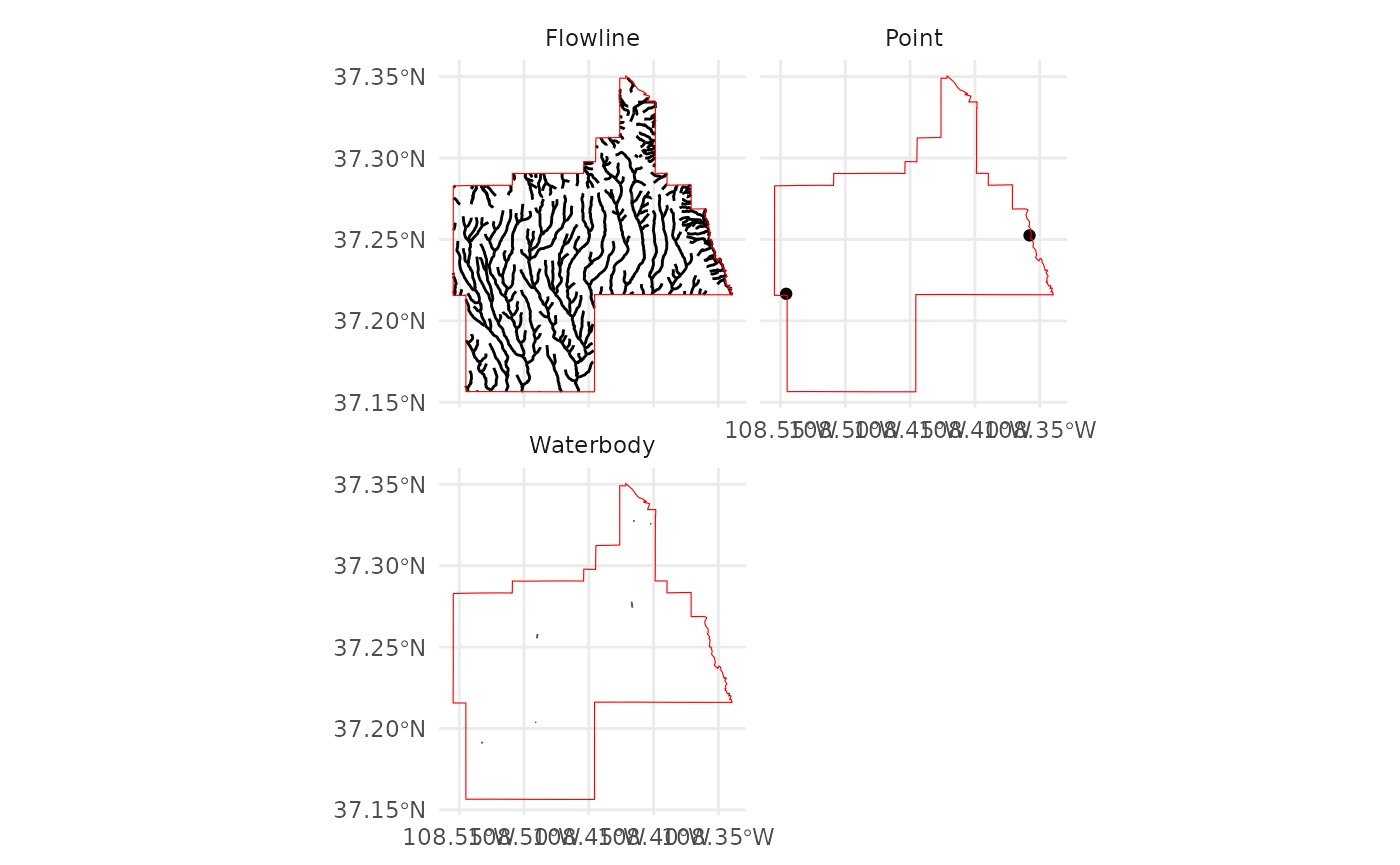
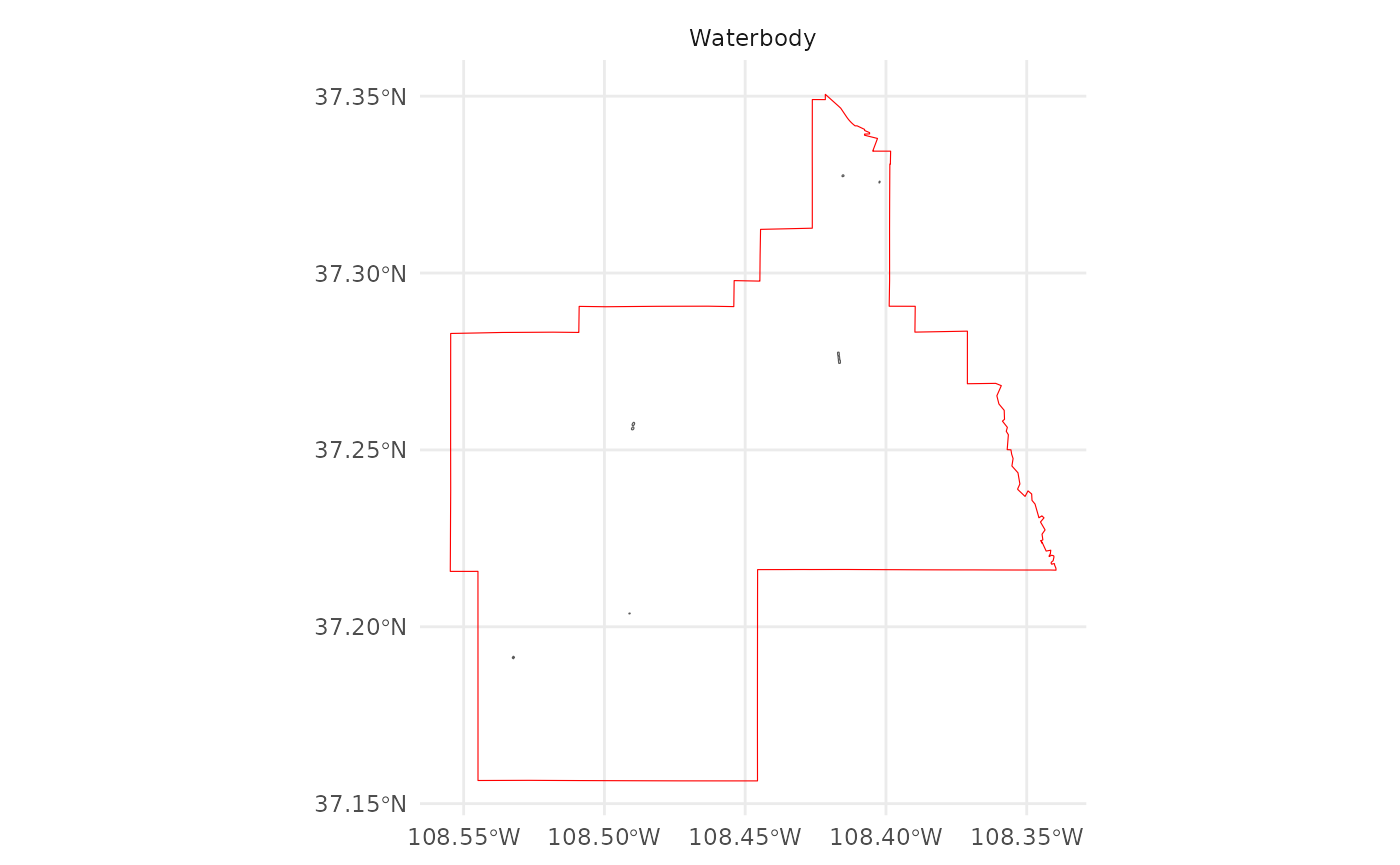
Deploying to gh-pages from @ ropensci/FedData@b0c3f42c3f6efd41c96bb395936d083dd2acd04b 🚀

diff --git a/articles/FedData.html b/articles/FedData.html
@@ -56,8 +56,6 @@
 <link href="FedData_files/mapviewCSS-0.0.1/mapview.css" rel="stylesheet">
 <script src="FedData_files/NED%20Elevation%20(m)_7049e5-1/data_stars_NEDElevationmf2e71b.txt"></script><script src="FedData_files/joda-0.0.1/joda.js"></script><script src="FedData_files/joda-0.0.1/addImageQuery-bindings.js"></script><link id="GHCN_prcp-1-attachment" rel="attachment" href="FedData_files/GHCN_prcp-0.0.1/GHCN_prcp_layer.fgb">
 <link id="GHCN_temp-1-attachment" rel="attachment" href="FedData_files/GHCN_temp-0.0.1/GHCN_temp_layer.fgb">
-<link id="Point-1-attachment" rel="attachment" href="FedData_files/Point-0.0.1/Point_layer.fgb">
-<link id="Flowline-1-attachment" rel="attachment" href="FedData_files/Flowline-0.0.1/Flowline_layer.fgb">
 <link id="Waterbody-1-attachment" rel="attachment" href="FedData_files/Waterbody-0.0.1/Waterbody_layer.fgb">
 <link id="x___name-1-attachment" rel="attachment" href="FedData_files/x___name-0.0.1/x___name_layer.fgb">
 <link id="x___label-1-attachment" rel="attachment" href="FedData_files/x___label-0.0.1/x___label_layer.fgb">
@@ -284,7 +282,7 @@ return in a future release of FedData.</p>
 <span><span class="va">NHD</span><span class="op">[</span><span class="fu">purrr</span><span class="fu">::</span><span class="fu"><a href="https://purrr.tidyverse.org/reference/map.html" class="external-link">map_lgl</a></span><span class="op">(</span><span class="va">NHD</span>, <span class="op">~</span> <span class="op">(</span><span class="fu"><a href="https://rspatial.github.io/terra/reference/dimensions.html" class="external-link">nrow</a></span><span class="op">(</span><span class="va">.x</span><span class="op">)</span> <span class="op">!=</span> <span class="fl">0</span><span class="op">)</span><span class="op">)</span><span class="op">]</span> <span class="op"><a href="../reference/pipe.html">%&gt;%</a></span></span>
 <span>  <span class="fu">plot_map</span><span class="op">(</span><span class="op">)</span></span></code></pre></div>
 <div class="leaflet html-widget html-fill-item" id="htmlwidget-1fb4450895fe099f74a1" style="width:100%;height:432.632880098888px;"></div>
-<script type="application/json" data-for="htmlwidget-1fb4450895fe099f74a1">{"x":{"options":{"minZoom":1,"maxZoom":52,"crs":{"crsClass":"L.CRS.EPSG3857","code":null,"proj4def":null,"projectedBounds":null,"options":{}},"preferCanvas":false,"bounceAtZoomLimits":false,"maxBounds":[[[-90,-370]],[[90,370]]]},"calls":[{"method":"addProviderTiles","args":["CartoDB.Positron","CartoDB.Positron","CartoDB.Positron",{"errorTileUrl":"","noWrap":false,"detectRetina":false,"pane":"tilePane"}]},{"method":"addProviderTiles","args":["CartoDB.DarkMatter","CartoDB.DarkMatter","CartoDB.DarkMatter",{"errorTileUrl":"","noWrap":false,"detectRetina":false,"pane":"tilePane"}]},{"method":"addProviderTiles","args":["OpenStreetMap","OpenStreetMap","OpenStreetMap",{"errorTileUrl":"","noWrap":false,"detectRetina":false,"pane":"tilePane"}]},{"method":"addProviderTiles","args":["Esri.WorldImagery","Esri.WorldImagery","Esri.WorldImagery",{"errorTileUrl":"","noWrap":false,"detectRetina":false,"pane":"tilePane"}]},{"method":"addProviderTiles","args":["OpenTopoMap","OpenTopoMap","OpenTopoMap",{"errorTileUrl":"","noWrap":false,"detectRetina":false,"pane":"tilePane"}]},{"method":"createMapPane","args":["point",440]},{"method":"addFlatGeoBuf","args":["Point","Point",null,true,["1","2"],{"radius":6,"stroke":true,"color":"#333333","weight":1,"opacity":0.9,"fill":true,"fillColor":"#6666FF","fillOpacity":0.6},{"interactive":true,"className":"","pane":"point"},"mapview-popup",{"radius":{"to":[3,15],"from":[3,15]},"weight":{"to":[1,10],"from":[1,10]},"opacity":{"to":[0,1],"from":[0,1]},"fillOpacity":{"to":[0,1],"from":[0,1]}},null,null,{"interactive":false,"permanent":false,"direction":"auto","opacity":1,"offset":[0,0],"textsize":"10px","textOnly":false,"className":"","sticky":true}]},{"method":"addScaleBar","args":[{"maxWidth":100,"metric":true,"imperial":true,"updateWhenIdle":true,"position":"bottomleft"}]},{"method":"addLegend","args":[{"colors":["#6666FF"],"labels":["Point"],"na_color":null,"na_label":"NA","opacity":1,"position":"bottomright","type":"factor","title":"","extra":null,"layerId":null,"className":"info legend","group":"Point"}]},{"method":"createMapPane","args":["line",430]},{"method":"addFlatGeoBuf","args":["Flowline","Flowline",null,true,["1","2","3","4","5","6","7","8","9","10","11","12","13","14","15","16","17","18","19","20","21","22","23","24","25","26","27","28","29","30","31","32","33","34","35","36","37","38","39","40","41","42","43","44","45","46","47","48","49","50","51","52","53","54","55","56","57","58","59","60","61","62","63","64","65","66","67","68","69","70","71","72","73","74","75","76","77","78","79","80","81","82","83","84","85","86","87","88","89","90","91","92","93","94","95","96","97","98","99","100","101","102","103","104","105","106","107","108","109","110","111","112","113","114","115","116","117","118","119","120","121","122","123","124","125","126","127","128","129","130","131","132","133","134","135","136","137","138","139","140","141","142","143","144","145","146","147","148","149","150","151","152","153","154","155","156","157","158","159","160","161","162","163","164","165","166","167","168","169","170","171","172","173","174","175","176","177","178","179","180","181","182","183","184","185","186","187","188","189","190","191","192","193","194","195","196","197","198","199","200","201","202","203","204","205","206","207","208","209","210","211","212","213","214","215","216","217","218","219","220","221","222","223","224","225","226","227","228","229","230","231","232","233","234","235","236","237","238","239","240","241","242","243","244","245","246","247","248","249","250","251","252","253","254","255","256","257","258","259","260","261","262","263","264","265","266","267","268","269","270","271","272","273","274","275","276","277","278","279","280","281","282","283","284","285","286","287","288","289","290","291","292","293","294","295","296","297","298","299","300","301","302","303","304","305","306","307","308","309","310","311","312","313","314","315","316","317","318","319","320","321","322","323","324","325","326","327","328","329","330","331","332","333","334","335","336","337","338","339","340","341","342","343","344","345","346","347","348","349","350","351","352","353","354","355","356","357","358","359","360","361","362","363","364","365","366","367","368","369","370","371","372","373","374","375","376","377","378","379","380","381","382","383","384","385","386","387","388","389","390","391","392","393","394","395","396","397","398","399","400","401","402","403","404","405","406","407","408","409","410","411","412","413","414","415","416","417","418","419","420","421","422","423"],{"radius":6,"stroke":true,"color":"#6666FF","weight":2,"opacity":0.9,"fill":false,"fillColor":null,"fillOpacity":1},{"interactive":true,"className":"","pane":"line"},"mapview-popup",{"radius":{"to":[3,15],"from":[3,15]},"weight":{"to":[1,10],"from":[1,10]},"opacity":{"to":[0,1],"from":[0,1]},"fillOpacity":{"to":[0,1],"from":[0,1]}},null,null,{"interactive":false,"permanent":false,"direction":"auto","opacity":1,"offset":[0,0],"textsize":"10px","textOnly":false,"className":"","sticky":true}]},{"method":"addLegend","args":[{"colors":["#6666FF"],"labels":["Flowline"],"na_color":null,"na_label":"NA","opacity":1,"position":"bottomright","type":"factor","title":"","extra":null,"layerId":null,"className":"info legend","group":"Flowline"}]},{"method":"createMapPane","args":["polygon",420]},{"method":"addFlatGeoBuf","args":["Waterbody","Waterbody",null,true,["1","2","3","4","5","6","7","8","9","10"],{"radius":6,"stroke":true,"color":"#333333","weight":0.5,"opacity":0.9,"fill":true,"fillColor":"#6666FF","fillOpacity":0.6},{"interactive":true,"className":"","pane":"polygon"},"mapview-popup",{"radius":{"to":[3,15],"from":[3,15]},"weight":{"to":[1,10],"from":[1,10]},"opacity":{"to":[0,1],"from":[0,1]},"fillOpacity":{"to":[0,1],"from":[0,1]}},null,null,{"interactive":false,"permanent":false,"direction":"auto","opacity":1,"offset":[0,0],"textsize":"10px","textOnly":false,"className":"","sticky":true}]},{"method":"addLayersControl","args":[["CartoDB.Positron","CartoDB.DarkMatter","OpenStreetMap","Esri.WorldImagery","OpenTopoMap"],["Point","Flowline","Waterbody"],{"collapsed":true,"autoZIndex":true,"position":"topleft"}]},{"method":"addLegend","args":[{"colors":["#6666FF"],"labels":["Waterbody"],"na_color":null,"na_label":"NA","opacity":1,"position":"bottomright","type":"factor","title":"","extra":null,"layerId":null,"className":"info legend","group":"Waterbody"}]},{"method":"addHomeButton","args":[-108.[phone redacted],37.[phone redacted],-[phone redacted],37.[phone redacted],true,null,"Zoom to full extent","<strong>Zoom full<\/strong>","bottomleft"]},{"method":"removeLayersControl","args":[]},{"method":"addTiles","args":["https://basemap.nationalmap.gov/ArcGIS/rest/services/USGSShadedReliefOnly/MapServer/tile/{z}/{y}/{x}",null,null,{"minZoom":0,"maxZoom":18,"tileSize":256,"subdomains":"abc","errorTileUrl":"","tms":false,"noWrap":false,"zoomOffset":0,"zoomReverse":false,"opacity":1,"zIndex":1,"detectRetina":false}]},{"method":"addTiles","args":["https://tiles.stadiamaps.com/tiles/stamen_toner_lines/{z}/{x}/{y}.png",null,null,{"minZoom":0,"maxZoom":18,"tileSize":256,"subdomains":"abc","errorTileUrl":"","tms":false,"noWrap":false,"zoomOffset":0,"zoomReverse":false,"opacity":1,"zIndex":1,"detectRetina":false}]},{"method":"addTiles","args":["https://tiles.stadiamaps.com/tiles/stamen_toner_labels/{z}/{x}/{y}.png",null,null,{"minZoom":0,"maxZoom":18,"tileSize":256,"subdomains":"abc","errorTileUrl":"","tms":false,"noWrap":false,"zoomOffset":0,"zoomReverse":false,"opacity":1,"zIndex":1,"detectRetina":false}]},{"method":"addPolygons","args":[[[[{"lng":[-[phone redacted],-[phone redacted],-[phone redacted],-[phone redacted],-[phone redacted],-[phone redacted],-[phone redacted],-[phone redacted],-[phone redacted],-[phone redacted],-[phone redacted],-[phone redacted],-[phone redacted],-[phone redacted],-[phone redacted],-[phone redacted],-[phone redacted],-[phone redacted],-[phone redacted],-[phone redacted],-[phone redacted],-[phone redacted],-[phone redacted],-[phone redacted],-[phone redacted],-[phone redacted],-[phone redacted],-[phone redacted],-[phone redacted],-[phone redacted],-[phone redacted],-[phone redacted],-[phone redacted],-[phone redacted],-[phone redacted],-[phone redacted],-[phone redacted],-[phone redacted],-[phone redacted],-[phone redacted],-[phone redacted],-[phone redacted],-[phone redacted],-[phone redacted],-[phone redacted],-[phone redacted],-[phone redacted],-[phone redacted],-[phone redacted],-[phone redacted],-[phone redacted],-[phone redacted],-[phone redacted],-[phone redacted],-[phone redacted],-[phone redacted],-[phone redacted],-[phone redacted],-[phone redacted],-[phone redacted],-[phone redacted],-[phone redacted],-[phone redacted],-[phone redacted],-[phone redacted],-[phone redacted],-[phone redacted],-[phone redacted],-[phone redacted],-[phone redacted],-[phone redacted],-[phone redacted],-[phone redacted],-[phone redacted],-[phone redacted],-[phone redacted],-[phone redacted],-[phone redacted],-[phone redacted],-[phone redacted],-[phone redacted],-[phone redacted],-[phone redacted],-[phone redacted],-[phone redacted],-[phone redacted],-[phone redacted],-[phone redacted],-[phone redacted],-[phone redacted],-[phone redacted],-[phone redacted],-[phone redacted],-[phone redacted],-[phone redacted],-[phone redacted],-[phone redacted],-[phone redacted],-[phone redacted],-[phone redacted],-[phone redacted],-[phone redacted],-[phone redacted],-[phone redacted],-[phone redacted],-[phone redacted],-[phone redacted],-[phone redacted],-[phone redacted],-[phone redacted],-[phone redacted],-[phone redacted],-[phone redacted],-[phone redacted],-[phone redacted],-[phone redacted],-[phone redacted],-[phone redacted],-[phone redacted],-[phone redacted],-[phone redacted],-[phone redacted],-[phone redacted],-[phone redacted],-[phone redacted],-[phone redacted],-[phone redacted],-[phone redacted],-[phone redacted],-[phone redacted],-[phone redacted],-[phone redacted],-[phone redacted],-[phone redacted],-[phone redacted],-[phone redacted],-[phone redacted],-[phone redacted],-[phone redacted],-[phone redacted],-[phone redacted],-[phone redacted],-[phone redacted],-[phone redacted],-[phone redacted],-[phone redacted],-[phone redacted],-[phone redacted],-[phone redacted],-[phone redacted],-[phone redacted],-[phone redacted],-[phone redacted],-[phone redacted],-[phone redacted],-[phone redacted],-[phone redacted],-[phone redacted],-[phone redacted],-[phone redacted],-[phone redacted],-[phone redacted],-[phone redacted],-[phone redacted],-[phone redacted],-[phone redacted],-[phone redacted],-[phone redacted],-[phone redacted],-[phone redacted],-[phone redacted],-[phone redacted],-[phone redacted],-[phone redacted],-[phone redacted],-[phone redacted],-[phone redacted],-[phone redacted],-[phone redacted],-[phone redacted],-[phone redacted],-[phone redacted],-[phone redacted],-[phone redacted],-[phone redacted],-[phone redacted],-[phone redacted],-[phone redacted],-[phone redacted],-[phone redacted],-[phone redacted],-[phone redacted],-[phone redacted],-[phone redacted],-[phone redacted],-[phone redacted],-[phone redacted],-[phone redacted],-[phone redacted],-[phone redacted],-[phone redacted],-[phone redacted],-[phone redacted],-[phone redacted],-[phone redacted],-[phone redacted],-[phone redacted],-[phone redacted],-[phone redacted],-[phone redacted],-[phone redacted],-[phone redacted],-[phone redacted],-[phone redacted],-[phone redacted],-[phone redacted],-[phone redacted],-[phone redacted],-[phone redacted],-[phone redacted],-[phone redacted],-[phone redacted],-[phone redacted],-[phone redacted],-[phone redacted],-[phone redacted],-[phone redacted],-[phone redacted],-[phone redacted],-[phone redacted],-[phone redacted]],"lat":[[phone redacted],[phone redacted],[phone redacted],37.[phone redacted],37.[phone redacted],37.[phone redacted],[phone redacted],[phone redacted],37.[phone redacted],[phone redacted],[phone redacted],[phone redacted],[phone redacted],37.[phone redacted],[phone redacted],37.[phone redacted],[phone redacted],37.[phone redacted],[phone redacted],37.[phone redacted],[phone redacted],[phone redacted],37.[phone redacted],[phone redacted],[phone redacted],[phone redacted],[phone redacted],[phone redacted],[phone redacted],[phone redacted],[phone redacted],[phone redacted],37.[phone redacted],[phone redacted],[phone redacted],[phone redacted],[phone redacted],[phone redacted],37.[phone redacted],[phone redacted],[phone redacted],[phone redacted],37.[phone redacted],[phone redacted],[phone redacted],[phone redacted],37.[phone redacted],[phone redacted],[phone redacted],37.[phone redacted],[phone redacted],[phone redacted],[phone redacted],[phone redacted],[phone redacted],[phone redacted],37.[phone redacted],[phone redacted],37.[phone redacted],[phone redacted],[phone redacted],[phone redacted],[phone redacted],[phone redacted],[phone redacted],[phone redacted],[phone redacted],[phone redacted],[phone redacted],[phone redacted],[phone redacted],37.[phone redacted],[phone redacted],[phone redacted],[phone redacted],37.[phone redacted],[phone redacted],[phone redacted],37.[phone redacted],37.[phone redacted],[phone redacted],[phone redacted],[phone redacted],[phone redacted],[phone redacted],[phone redacted],37.[phone redacted],[phone redacted],[phone redacted],[phone redacted],[phone redacted],[phone redacted],37.[phone redacted],[phone redacted],[phone redacted],[phone redacted],[phone redacted],[phone redacted],[phone redacted],[phone redacted],[phone redacted],[phone redacted],[phone redacted],[phone redacted],[phone redacted],[phone redacted],[phone redacted],37.[phone redacted],[phone redacted],[phone redacted],[phone redacted],[phone redacted],[phone redacted],[phone redacted],[phone redacted],37.[phone redacted],37.[phone redacted],[phone redacted],[phone redacted],[phone redacted],[phone redacted],[phone redacted],37.[phone redacted],37.[phone redacted],37.[phone redacted],[phone redacted],[phone redacted],[phone redacted],[phone redacted],[phone redacted],[phone redacted],[phone redacted],[phone redacted],[phone redacted],37.[phone redacted],[phone redacted],37.[phone redacted],[phone redacted],[phone redacted],37.[phone redacted],[phone redacted],[phone redacted],[phone redacted],[phone redacted],[phone redacted],[phone redacted],[phone redacted],[phone redacted],[phone redacted],37.[phone redacted],37.[phone redacted],[phone redacted],[phone redacted],[phone redacted],[phone redacted],[phone redacted],[phone redacted],[phone redacted],[phone redacted],[phone redacted],37.[phone redacted],[phone redacted],[phone redacted],[phone redacted],[phone redacted],[phone redacted],[phone redacted],37.[phone redacted],[phone redacted],[phone redacted],37.[phone redacted],37.[phone redacted],[phone redacted],37.[phone redacted],[phone redacted],[phone redacted],37.[phone redacted],37.[phone redacted],[phone redacted],[phone redacted],[phone redacted],[phone redacted],37.[phone redacted],[phone redacted],[phone redacted],37.[phone redacted],37.[phone redacted],[phone redacted],[phone redacted],[phone redacted],[phone redacted],37.[phone redacted],37.[phone redacted],[phone redacted],[phone redacted],[phone redacted],[phone redacted],37.[phone redacted],[phone redacted],[phone redacted],37.[phone redacted],[phone redacted],[phone redacted],[phone redacted],37.[phone redacted],37.[phone redacted],[phone redacted],[phone redacted],[phone redacted],[phone redacted],[phone redacted],[phone redacted],[phone redacted],[phone redacted],[phone redacted],[phone redacted],[phone redacted],[phone redacted],[phone redacted],[phone redacted],[phone redacted],[phone redacted],[phone redacted],37.[phone redacted],[phone redacted],[phone redacted],[phone redacted],[phone redacted],[phone redacted],[phone redacted],[phone redacted]]}]]],null,null,{"pointerEvents":"none","stroke":true,"color":"black","weight":5,"opacity":0.5,"fill":false,"fillColor":"black","fillOpacity":0.2,"smoothFactor":1,"noClip":false},null,null,null,{"interactive":false,"permanent":false,"direction":"auto","opacity":1,"offset":[0,0],"textsize":"10px","textOnly":false,"className":"","sticky":true},{"sendToBack":true}]}],"fitBounds":[[phone redacted],-[phone redacted],[phone redacted],-[phone redacted],[]],"limits":{"lat":[[phone redacted],[phone redacted]],"lng":[-[phone redacted],-[phone redacted]]}},"evals":[],"jsHooks":{"render":[{"code":"function(el, x, data) {\n  return (\n      function(el, x, data) {\n      // get the leaflet map\n      var map = this; //HTMLWidgets.find('#' + el.id);\n      // we need a new div element because we have to handle\n      // the mouseover output separately\n      // debugger;\n      function addElement () {\n      // generate new div Element\n      var newDiv = $(document.createElement('div'));\n      // append at end of leaflet htmlwidget container\n      $(el).append(newDiv);\n      //provide ID and style\n      newDiv.addClass('lnlt');\n      newDiv.css({\"position\":\"relative\",\"bottomleft\":\"0px\",\"background-color\":\"rgba(255, 255, 255, 0.7)\",\"box-shadow\":\"0 0 2px #bbb\",\"background-clip\":\"padding-box\",\"margin\":\"0\",\"padding-left\":\"5px\",\"padding-right\":\"5px\",\"color\":\"#333\",\"font-size\":\"9px\",\"font-family\":\"\\\"Helvetica Neue\\\", Arial, Helvetica, sans-serif\",\"text-align\":\"left\",\"z-index\":\"700\"});\n      return newDiv;\n      }\n\n\n      // check for already existing lnlt class to not duplicate\n      var lnlt = $(el).find('.lnlt');\n\n      if(!lnlt.length) {\n      lnlt = addElement();\n\n      // grab the special div we generated in the beginning\n      // and put the mousmove output there\n\n      map.on('mousemove', function (e) {\n      if (e.originalEvent.ctrlKey) {\n      if (document.querySelector('.lnlt') === null) lnlt = addElement();\n      lnlt.text(\n                           ' lon: ' + (e.latlng.lng).toFixed(5) +\n                           ' | lat: ' + (e.latlng.lat).toFixed(5) +\n                           ' | zoom: ' + map.getZoom() +\n                           ' | x: ' + L.CRS.EPSG3857.project(e.latlng).x.toFixed(0) +\n                           ' | y: ' + L.CRS.EPSG3857.project(e.latlng).y.toFixed(0) +\n                           ' | epsg: 3857 ' +\n                           ' | proj4: +proj=merc +a=[phone redacted] +b=[phone redacted] +lat_ts=0.0 +lon_0=0.0 +x_0=0.0 +y_0=0 +k=1.0 +units=m +nadgrids=@null +no_defs ');\n      } else {\n      if (document.querySelector('.lnlt') === null) lnlt = addElement();\n      lnlt.text(\n                      ' lon: ' + (e.latlng.lng).toFixed(5) +\n                      ' | lat: ' + (e.latlng.lat).toFixed(5) +\n                      ' | zoom: ' + map.getZoom() + ' ');\n      }\n      });\n\n      // remove the lnlt div when mouse leaves map\n      map.on('mouseout', function (e) {\n      var strip = document.querySelector('.lnlt');\n      if( strip !==null) strip.remove();\n      });\n\n      };\n\n      //$(el).keypress(67, function(e) {\n      map.on('preclick', function(e) {\n      if (e.originalEvent.ctrlKey) {\n      if (document.querySelector('.lnlt') === null) lnlt = addElement();\n      lnlt.text(\n                      ' lon: ' + (e.latlng.lng).toFixed(5) +\n                      ' | lat: ' + (e.latlng.lat).toFixed(5) +\n                      ' | zoom: ' + map.getZoom() + ' ');\n      var txt = document.querySelector('.lnlt').textContent;\n      console.log(txt);\n      //txt.innerText.focus();\n      //txt.select();\n      setClipboardText('\"' + txt + '\"');\n      }\n      });\n\n      }\n      ).call(this.getMap(), el, x, data);\n}","data":null},{"code":"function(el, x, data) {\n  return (function(el,x,data){\n           var map = this;\n\n           map.on('keypress', function(e) {\n               console.log(e.originalEvent.code);\n               var key = e.originalEvent.code;\n               if (key === 'KeyE') {\n                   var bb = this.getBounds();\n                   var txt = JSON.stringify(bb);\n                   console.log(txt);\n\n                   setClipboardText('\\'' + txt + '\\'');\n               }\n           })\n        }).call(this.getMap(), el, x, data);\n}","data":null}]}}</script><div class="sourceCode" id="cb8"><pre class="downlit sourceCode r">
+<script type="application/json" data-for="htmlwidget-1fb4450895fe099f74a1">{"x":{"options":{"minZoom":1,"maxZoom":52,"crs":{"crsClass":"L.CRS.EPSG3857","code":null,"proj4def":null,"projectedBounds":null,"options":{}},"preferCanvas":false,"bounceAtZoomLimits":false,"maxBounds":[[[-90,-370]],[[90,370]]]},"calls":[{"method":"addProviderTiles","args":["CartoDB.Positron","CartoDB.Positron","CartoDB.Positron",{"errorTileUrl":"","noWrap":false,"detectRetina":false,"pane":"tilePane"}]},{"method":"addProviderTiles","args":["CartoDB.DarkMatter","CartoDB.DarkMatter","CartoDB.DarkMatter",{"errorTileUrl":"","noWrap":false,"detectRetina":false,"pane":"tilePane"}]},{"method":"addProviderTiles","args":["OpenStreetMap","OpenStreetMap","OpenStreetMap",{"errorTileUrl":"","noWrap":false,"detectRetina":false,"pane":"tilePane"}]},{"method":"addProviderTiles","args":["Esri.WorldImagery","Esri.WorldImagery","Esri.WorldImagery",{"errorTileUrl":"","noWrap":false,"detectRetina":false,"pane":"tilePane"}]},{"method":"addProviderTiles","args":["OpenTopoMap","OpenTopoMap","OpenTopoMap",{"errorTileUrl":"","noWrap":false,"detectRetina":false,"pane":"tilePane"}]},{"method":"createMapPane","args":["polygon",420]},{"method":"addFlatGeoBuf","args":["Waterbody","Waterbody",null,true,["1","2","3","4","5","6","7","8","9","10"],{"radius":6,"stroke":true,"color":"#333333","weight":0.5,"opacity":0.9,"fill":true,"fillColor":"#6666FF","fillOpacity":0.6},{"interactive":true,"className":"","pane":"polygon"},"mapview-popup",{"radius":{"to":[3,15],"from":[3,15]},"weight":{"to":[1,10],"from":[1,10]},"opacity":{"to":[0,1],"from":[0,1]},"fillOpacity":{"to":[0,1],"from":[0,1]}},null,null,{"interactive":false,"permanent":false,"direction":"auto","opacity":1,"offset":[0,0],"textsize":"10px","textOnly":false,"className":"","sticky":true}]},{"method":"addScaleBar","args":[{"maxWidth":100,"metric":true,"imperial":true,"updateWhenIdle":true,"position":"bottomleft"}]},{"method":"addLayersControl","args":[["CartoDB.Positron","CartoDB.DarkMatter","OpenStreetMap","Esri.WorldImagery","OpenTopoMap"],"Waterbody",{"collapsed":true,"autoZIndex":true,"position":"topleft"}]},{"method":"addLegend","args":[{"colors":["#6666FF"],"labels":["Waterbody"],"na_color":null,"na_label":"NA","opacity":1,"position":"bottomright","type":"factor","title":"","extra":null,"layerId":null,"className":"info legend","group":"Waterbody"}]},{"method":"removeLayersControl","args":[]},{"method":"addTiles","args":["https://basemap.nationalmap.gov/ArcGIS/rest/services/USGSShadedReliefOnly/MapServer/tile/{z}/{y}/{x}",null,null,{"minZoom":0,"maxZoom":18,"tileSize":256,"subdomains":"abc","errorTileUrl":"","tms":false,"noWrap":false,"zoomOffset":0,"zoomReverse":false,"opacity":1,"zIndex":1,"detectRetina":false}]},{"method":"addTiles","args":["https://tiles.stadiamaps.com/tiles/stamen_toner_lines/{z}/{x}/{y}.png",null,null,{"minZoom":0,"maxZoom":18,"tileSize":256,"subdomains":"abc","errorTileUrl":"","tms":false,"noWrap":false,"zoomOffset":0,"zoomReverse":false,"opacity":1,"zIndex":1,"detectRetina":false}]},{"method":"addTiles","args":["https://tiles.stadiamaps.com/tiles/stamen_toner_labels/{z}/{x}/{y}.png",null,null,{"minZoom":0,"maxZoom":18,"tileSize":256,"subdomains":"abc","errorTileUrl":"","tms":false,"noWrap":false,"zoomOffset":0,"zoomReverse":false,"opacity":1,"zIndex":1,"detectRetina":false}]},{"method":"addPolygons","args":[[[[{"lng":[-[phone redacted],-[phone redacted],-[phone redacted],-[phone redacted],-[phone redacted],-[phone redacted],-[phone redacted],-[phone redacted],-[phone redacted],-[phone redacted],-[phone redacted],-[phone redacted],-[phone redacted],-[phone redacted],-[phone redacted],-[phone redacted],-[phone redacted],-[phone redacted],-[phone redacted],-[phone redacted],-[phone redacted],-[phone redacted],-[phone redacted],-[phone redacted],-[phone redacted],-[phone redacted],-[phone redacted],-[phone redacted],-[phone redacted],-[phone redacted],-[phone redacted],-[phone redacted],-[phone redacted],-[phone redacted],-[phone redacted],-[phone redacted],-[phone redacted],-[phone redacted],-[phone redacted],-[phone redacted],-[phone redacted],-[phone redacted],-[phone redacted],-[phone redacted],-[phone redacted],-[phone redacted],-[phone redacted],-[phone redacted],-[phone redacted],-[phone redacted],-[phone redacted],-[phone redacted],-[phone redacted],-[phone redacted],-[phone redacted],-[phone redacted],-[phone redacted],-[phone redacted],-[phone redacted],-[phone redacted],-[phone redacted],-[phone redacted],-[phone redacted],-[phone redacted],-[phone redacted],-[phone redacted],-[phone redacted],-[phone redacted],-[phone redacted],-[phone redacted],-[phone redacted],-[phone redacted],-[phone redacted],-[phone redacted],-[phone redacted],-[phone redacted],-[phone redacted],-[phone redacted],-[phone redacted],-[phone redacted],-[phone redacted],-[phone redacted],-[phone redacted],-[phone redacted],-[phone redacted],-[phone redacted],-[phone redacted],-[phone redacted],-[phone redacted],-[phone redacted],-[phone redacted],-[phone redacted],-[phone redacted],-[phone redacted],-[phone redacted],-[phone redacted],-[phone redacted],-[phone redacted],-[phone redacted],-[phone redacted],-[phone redacted],-[phone redacted],-[phone redacted],-[phone redacted],-[phone redacted],-[phone redacted],-[phone redacted],-[phone redacted],-[phone redacted],-[phone redacted],-[phone redacted],-[phone redacted],-[phone redacted],-[phone redacted],-[phone redacted],-[phone redacted],-[phone redacted],-[phone redacted],-[phone redacted],-[phone redacted],-[phone redacted],-[phone redacted],-[phone redacted],-[phone redacted],-[phone redacted],-[phone redacted],-[phone redacted],-[phone redacted],-[phone redacted],-[phone redacted],-[phone redacted],-[phone redacted],-[phone redacted],-[phone redacted],-[phone redacted],-[phone redacted],-[phone redacted],-[phone redacted],-[phone redacted],-[phone redacted],-[phone redacted],-[phone redacted],-[phone redacted],-[phone redacted],-[phone redacted],-[phone redacted],-[phone redacted],-[phone redacted],-[phone redacted],-[phone redacted],-[phone redacted],-[phone redacted],-[phone redacted],-[phone redacted],-[phone redacted],-[phone redacted],-[phone redacted],-[phone redacted],-[phone redacted],-[phone redacted],-[phone redacted],-[phone redacted],-[phone redacted],-[phone redacted],-[phone redacted],-[phone redacted],-[phone redacted],-[phone redacted],-[phone redacted],-[phone redacted],-[phone redacted],-[phone redacted],-[phone redacted],-[phone redacted],-[phone redacted],-[phone redacted],-[phone redacted],-[phone redacted],-[phone redacted],-[phone redacted],-[phone redacted],-[phone redacted],-[phone redacted],-[phone redacted],-[phone redacted],-[phone redacted],-[phone redacted],-[phone redacted],-[phone redacted],-[phone redacted],-[phone redacted],-[phone redacted],-[phone redacted],-[phone redacted],-[phone redacted],-[phone redacted],-[phone redacted],-[phone redacted],-[phone redacted],-[phone redacted],-[phone redacted],-[phone redacted],-[phone redacted],-[phone redacted],-[phone redacted],-[phone redacted],-[phone redacted],-[phone redacted],-[phone redacted],-[phone redacted],-[phone redacted],-[phone redacted],-[phone redacted],-[phone redacted],-[phone redacted],-[phone redacted],-[phone redacted],-[phone redacted],-[phone redacted],-[phone redacted],-[phone redacted],-[phone redacted],-[phone redacted],-[phone redacted],-[phone redacted],-[phone redacted],-[phone redacted],-[phone redacted],-[phone redacted],-[phone redacted],-[phone redacted]],"lat":[[phone redacted],[phone redacted],[phone redacted],37.[phone redacted],37.[phone redacted],37.[phone redacted],[phone redacted],[phone redacted],37.[phone redacted],[phone redacted],[phone redacted],[phone redacted],[phone redacted],37.[phone redacted],[phone redacted],37.[phone redacted],[phone redacted],37.[phone redacted],[phone redacted],37.[phone redacted],[phone redacted],[phone redacted],37.[phone redacted],[phone redacted],[phone redacted],[phone redacted],[phone redacted],[phone redacted],[phone redacted],[phone redacted],[phone redacted],[phone redacted],37.[phone redacted],[phone redacted],[phone redacted],[phone redacted],[phone redacted],[phone redacted],37.[phone redacted],[phone redacted],[phone redacted],[phone redacted],37.[phone redacted],[phone redacted],[phone redacted],[phone redacted],37.[phone redacted],[phone redacted],[phone redacted],37.[phone redacted],[phone redacted],[phone redacted],[phone redacted],[phone redacted],[phone redacted],[phone redacted],37.[phone redacted],[phone redacted],37.[phone redacted],[phone redacted],[phone redacted],[phone redacted],[phone redacted],[phone redacted],[phone redacted],[phone redacted],[phone redacted],[phone redacted],[phone redacted],[phone redacted],[phone redacted],37.[phone redacted],[phone redacted],[phone redacted],[phone redacted],37.[phone redacted],[phone redacted],[phone redacted],37.[phone redacted],37.[phone redacted],[phone redacted],[phone redacted],[phone redacted],[phone redacted],[phone redacted],[phone redacted],37.[phone redacted],[phone redacted],[phone redacted],[phone redacted],[phone redacted],[phone redacted],37.[phone redacted],[phone redacted],[phone redacted],[phone redacted],[phone redacted],[phone redacted],[phone redacted],[phone redacted],[phone redacted],[phone redacted],[phone redacted],[phone redacted],[phone redacted],[phone redacted],[phone redacted],37.[phone redacted],[phone redacted],[phone redacted],[phone redacted],[phone redacted],[phone redacted],[phone redacted],[phone redacted],37.[phone redacted],37.[phone redacted],[phone redacted],[phone redacted],[phone redacted],[phone redacted],[phone redacted],37.[phone redacted],37.[phone redacted],37.[phone redacted],[phone redacted],[phone redacted],[phone redacted],[phone redacted],[phone redacted],[phone redacted],[phone redacted],[phone redacted],[phone redacted],37.[phone redacted],[phone redacted],37.[phone redacted],[phone redacted],[phone redacted],37.[phone redacted],[phone redacted],[phone redacted],[phone redacted],[phone redacted],[phone redacted],[phone redacted],[phone redacted],[phone redacted],[phone redacted],37.[phone redacted],37.[phone redacted],[phone redacted],[phone redacted],[phone redacted],[phone redacted],[phone redacted],[phone redacted],[phone redacted],[phone redacted],[phone redacted],37.[phone redacted],[phone redacted],[phone redacted],[phone redacted],[phone redacted],[phone redacted],[phone redacted],37.[phone redacted],[phone redacted],[phone redacted],37.[phone redacted],37.[phone redacted],[phone redacted],37.[phone redacted],[phone redacted],[phone redacted],37.[phone redacted],37.[phone redacted],[phone redacted],[phone redacted],[phone redacted],[phone redacted],37.[phone redacted],[phone redacted],[phone redacted],37.[phone redacted],37.[phone redacted],[phone redacted],[phone redacted],[phone redacted],[phone redacted],37.[phone redacted],37.[phone redacted],[phone redacted],[phone redacted],[phone redacted],[phone redacted],37.[phone redacted],[phone redacted],[phone redacted],37.[phone redacted],[phone redacted],[phone redacted],[phone redacted],37.[phone redacted],37.[phone redacted],[phone redacted],[phone redacted],[phone redacted],[phone redacted],[phone redacted],[phone redacted],[phone redacted],[phone redacted],[phone redacted],[phone redacted],[phone redacted],[phone redacted],[phone redacted],[phone redacted],[phone redacted],[phone redacted],[phone redacted],37.[phone redacted],[phone redacted],[phone redacted],[phone redacted],[phone redacted],[phone redacted],[phone redacted],[phone redacted]]}]]],null,null,{"pointerEvents":"none","stroke":true,"color":"black","weight":5,"opacity":0.5,"fill":false,"fillColor":"black","fillOpacity":0.2,"smoothFactor":1,"noClip":false},null,null,null,{"interactive":false,"permanent":false,"direction":"auto","opacity":1,"offset":[0,0],"textsize":"10px","textOnly":false,"className":"","sticky":true},{"sendToBack":true}]}],"fitBounds":[[phone redacted],-[phone redacted],[phone redacted],-[phone redacted],[]],"limits":{"lat":[[phone redacted],[phone redacted]],"lng":[-[phone redacted],-[phone redacted]]}},"evals":[],"jsHooks":{"render":[{"code":"function(el, x, data) {\n  return (\n      function(el, x, data) {\n      // get the leaflet map\n      var map = this; //HTMLWidgets.find('#' + el.id);\n      // we need a new div element because we have to handle\n      // the mouseover output separately\n      // debugger;\n      function addElement () {\n      // generate new div Element\n      var newDiv = $(document.createElement('div'));\n      // append at end of leaflet htmlwidget container\n      $(el).append(newDiv);\n      //provide ID and style\n      newDiv.addClass('lnlt');\n      newDiv.css({\"position\":\"relative\",\"bottomleft\":\"0px\",\"background-color\":\"rgba(255, 255, 255, 0.7)\",\"box-shadow\":\"0 0 2px #bbb\",\"background-clip\":\"padding-box\",\"margin\":\"0\",\"padding-left\":\"5px\",\"padding-right\":\"5px\",\"color\":\"#333\",\"font-size\":\"9px\",\"font-family\":\"\\\"Helvetica Neue\\\", Arial, Helvetica, sans-serif\",\"text-align\":\"left\",\"z-index\":\"700\"});\n      return newDiv;\n      }\n\n\n      // check for already existing lnlt class to not duplicate\n      var lnlt = $(el).find('.lnlt');\n\n      if(!lnlt.length) {\n      lnlt = addElement();\n\n      // grab the special div we generated in the beginning\n      // and put the mousmove output there\n\n      map.on('mousemove', function (e) {\n      if (e.originalEvent.ctrlKey) {\n      if (document.querySelector('.lnlt') === null) lnlt = addElement();\n      lnlt.text(\n                           ' lon: ' + (e.latlng.lng).toFixed(5) +\n                           ' | lat: ' + (e.latlng.lat).toFixed(5) +\n                           ' | zoom: ' + map.getZoom() +\n                           ' | x: ' + L.CRS.EPSG3857.project(e.latlng).x.toFixed(0) +\n                           ' | y: ' + L.CRS.EPSG3857.project(e.latlng).y.toFixed(0) +\n                           ' | epsg: 3857 ' +\n                           ' | proj4: +proj=merc +a=[phone redacted] +b=[phone redacted] +lat_ts=0.0 +lon_0=0.0 +x_0=0.0 +y_0=0 +k=1.0 +units=m +nadgrids=@null +no_defs ');\n      } else {\n      if (document.querySelector('.lnlt') === null) lnlt = addElement();\n      lnlt.text(\n                      ' lon: ' + (e.latlng.lng).toFixed(5) +\n                      ' | lat: ' + (e.latlng.lat).toFixed(5) +\n                      ' | zoom: ' + map.getZoom() + ' ');\n      }\n      });\n\n      // remove the lnlt div when mouse leaves map\n      map.on('mouseout', function (e) {\n      var strip = document.querySelector('.lnlt');\n      if( strip !==null) strip.remove();\n      });\n\n      };\n\n      //$(el).keypress(67, function(e) {\n      map.on('preclick', function(e) {\n      if (e.originalEvent.ctrlKey) {\n      if (document.querySelector('.lnlt') === null) lnlt = addElement();\n      lnlt.text(\n                      ' lon: ' + (e.latlng.lng).toFixed(5) +\n                      ' | lat: ' + (e.latlng.lat).toFixed(5) +\n                      ' | zoom: ' + map.getZoom() + ' ');\n      var txt = document.querySelector('.lnlt').textContent;\n      console.log(txt);\n      //txt.innerText.focus();\n      //txt.select();\n      setClipboardText('\"' + txt + '\"');\n      }\n      });\n\n      }\n      ).call(this.getMap(), el, x, data);\n}","data":null},{"code":"function(el, x, data) {\n  return (function(el,x,data){\n           var map = this;\n\n           map.on('keypress', function(e) {\n               console.log(e.originalEvent.code);\n               var key = e.originalEvent.code;\n               if (key === 'KeyE') {\n                   var bb = this.getBounds();\n                   var txt = JSON.stringify(bb);\n                   console.log(txt);\n\n                   setClipboardText('\\'' + txt + '\\'');\n               }\n           })\n        }).call(this.getMap(), el, x, data);\n}","data":null}]}}</script><div class="sourceCode" id="cb8"><pre class="downlit sourceCode r">
 <code class="sourceCode R"><span></span>
 <span><span class="co"># You can also retrieve the Watershed Boundary Dataset</span></span>
 <span><span class="va">WBD</span> <span class="op">&lt;-</span></span>
@@ -456,12 +454,12 @@ return in a future release of FedData.</p>
 <span><span class="co">#&gt; <span style="color: #949494;"># Rowwise: </span></span></span>
 <span><span class="co">#&gt;   product  year region collection version outfile             rast              </span></span>
 <span><span class="co">#&gt;   <span style="color: #949494; font-style: italic;">&lt;ord&gt;</span>   <span style="color: #949494; font-style: italic;">&lt;int&gt;</span> <span style="color: #949494; font-style: italic;">&lt;ord&gt;</span>       <span style="color: #949494; font-style: italic;">&lt;int&gt;</span>   <span style="color: #949494; font-style: italic;">&lt;int&gt;</span> <span style="color: #949494; font-style: italic;">&lt;glue&gt;</span>              <span style="color: #949494; font-style: italic;">&lt;list&gt;</span>            </span></span>
-<span><span class="co">#&gt; <span style="color: #BCBCBC;">1</span> LndCov   <span style="text-decoration: underline;">2</span>020 CU              1       1 /tmp/RtmpQX1MMl/Fe… <span style="color: #949494;">&lt;SpatRstr[,627,1]&gt;</span></span></span>
-<span><span class="co">#&gt; <span style="color: #BCBCBC;">2</span> LndChg   <span style="text-decoration: underline;">2</span>020 CU              1       1 /tmp/RtmpQX1MMl/Fe… <span style="color: #949494;">&lt;SpatRstr[,627,1]&gt;</span></span></span>
-<span><span class="co">#&gt; <span style="color: #BCBCBC;">3</span> LndCnf   <span style="text-decoration: underline;">2</span>020 CU              1       1 /tmp/RtmpQX1MMl/Fe… <span style="color: #949494;">&lt;SpatRstr[,627,1]&gt;</span></span></span>
-<span><span class="co">#&gt; <span style="color: #BCBCBC;">4</span> FctImp   <span style="text-decoration: underline;">2</span>020 CU              1       1 /tmp/RtmpQX1MMl/Fe… <span style="color: #949494;">&lt;SpatRstr[,627,1]&gt;</span></span></span>
-<span><span class="co">#&gt; <span style="color: #BCBCBC;">5</span> ImpDsc   <span style="text-decoration: underline;">2</span>020 CU              1       1 /tmp/RtmpQX1MMl/Fe… <span style="color: #949494;">&lt;SpatRstr[,627,1]&gt;</span></span></span>
-<span><span class="co">#&gt; <span style="color: #BCBCBC;">6</span> SpcChg   <span style="text-decoration: underline;">2</span>020 CU              1       1 /tmp/RtmpQX1MMl/Fe… <span style="color: #949494;">&lt;SpatRstr[,627,1]&gt;</span></span></span>
+<span><span class="co">#&gt; <span style="color: #BCBCBC;">1</span> LndCov   <span style="text-decoration: underline;">2</span>020 CU              1       1 /tmp/RtmpM7k079/Fe… <span style="color: #949494;">&lt;SpatRstr[,627,1]&gt;</span></span></span>
+<span><span class="co">#&gt; <span style="color: #BCBCBC;">2</span> LndChg   <span style="text-decoration: underline;">2</span>020 CU              1       1 /tmp/RtmpM7k079/Fe… <span style="color: #949494;">&lt;SpatRstr[,627,1]&gt;</span></span></span>
+<span><span class="co">#&gt; <span style="color: #BCBCBC;">3</span> LndCnf   <span style="text-decoration: underline;">2</span>020 CU              1       1 /tmp/RtmpM7k079/Fe… <span style="color: #949494;">&lt;SpatRstr[,627,1]&gt;</span></span></span>
+<span><span class="co">#&gt; <span style="color: #BCBCBC;">4</span> FctImp   <span style="text-decoration: underline;">2</span>020 CU              1       1 /tmp/RtmpM7k079/Fe… <span style="color: #949494;">&lt;SpatRstr[,627,1]&gt;</span></span></span>
+<span><span class="co">#&gt; <span style="color: #BCBCBC;">5</span> ImpDsc   <span style="text-decoration: underline;">2</span>020 CU              1       1 /tmp/RtmpM7k079/Fe… <span style="color: #949494;">&lt;SpatRstr[,627,1]&gt;</span></span></span>
+<span><span class="co">#&gt; <span style="color: #BCBCBC;">6</span> SpcChg   <span style="text-decoration: underline;">2</span>020 CU              1       1 /tmp/RtmpM7k079/Fe… <span style="color: #949494;">&lt;SpatRstr[,627,1]&gt;</span></span></span>
 <span></span>
 <span><span class="fu"><a href="https://rspatial.github.io/terra/reference/plot.html" class="external-link">plot</a></span><span class="op">(</span><span class="va">NLCD_ANNUAL</span><span class="op">$</span><span class="va">rast</span><span class="op">[[</span><span class="fl">1</span><span class="op">]</span><span class="op">]</span><span class="op">)</span></span></code></pre></div>
 <p><img src="FedData_files/figure-html/NLCD-annual-1.png" class="r-plt" alt="" width="100%"></p>

diff --git a/articles/FedData.md b/articles/FedData.md
@@ -394,12 +394,12 @@ NLCD_ANNUAL
 #> # Rowwise: 
 #>   product  year region collection version outfile             rast              
 #>   <ord>   <int> <ord>       <int>   <int> <glue>              <list>            
-#> 1 LndCov   2020 CU              1       1 /tmp/RtmpQX1MMl/Fe… <SpatRstr[,627,1]>
-#> 2 LndChg   2020 CU              1       1 /tmp/RtmpQX1MMl/Fe… <SpatRstr[,627,1]>
-#> 3 LndCnf   2020 CU              1       1 /tmp/RtmpQX1MMl/Fe… <SpatRstr[,627,1]>
-#> 4 FctImp   2020 CU              1       1 /tmp/RtmpQX1MMl/Fe… <SpatRstr[,627,1]>
-#> 5 ImpDsc   2020 CU              1       1 /tmp/RtmpQX1MMl/Fe… <SpatRstr[,627,1]>
-#> 6 SpcChg   2020 CU              1       1 /tmp/RtmpQX1MMl/Fe… <SpatRstr[,627,1]>
+#> 1 LndCov   2020 CU              1       1 /tmp/RtmpM7k079/Fe… <SpatRstr[,627,1]>
+#> 2 LndChg   2020 CU              1       1 /tmp/RtmpM7k079/Fe… <SpatRstr[,627,1]>
+#> 3 LndCnf   2020 CU              1       1 /tmp/RtmpM7k079/Fe… <SpatRstr[,627,1]>
+#> 4 FctImp   2020 CU              1       1 /tmp/RtmpM7k079/Fe… <SpatRstr[,627,1]>
+#> 5 ImpDsc   2020 CU              1       1 /tmp/RtmpM7k079/Fe… <SpatRstr[,627,1]>
+#> 6 SpcChg   2020 CU              1       1 /tmp/RtmpM7k079/Fe… <SpatRstr[,627,1]>
 
 plot(NLCD_ANNUAL$rast[[1]])
 ```